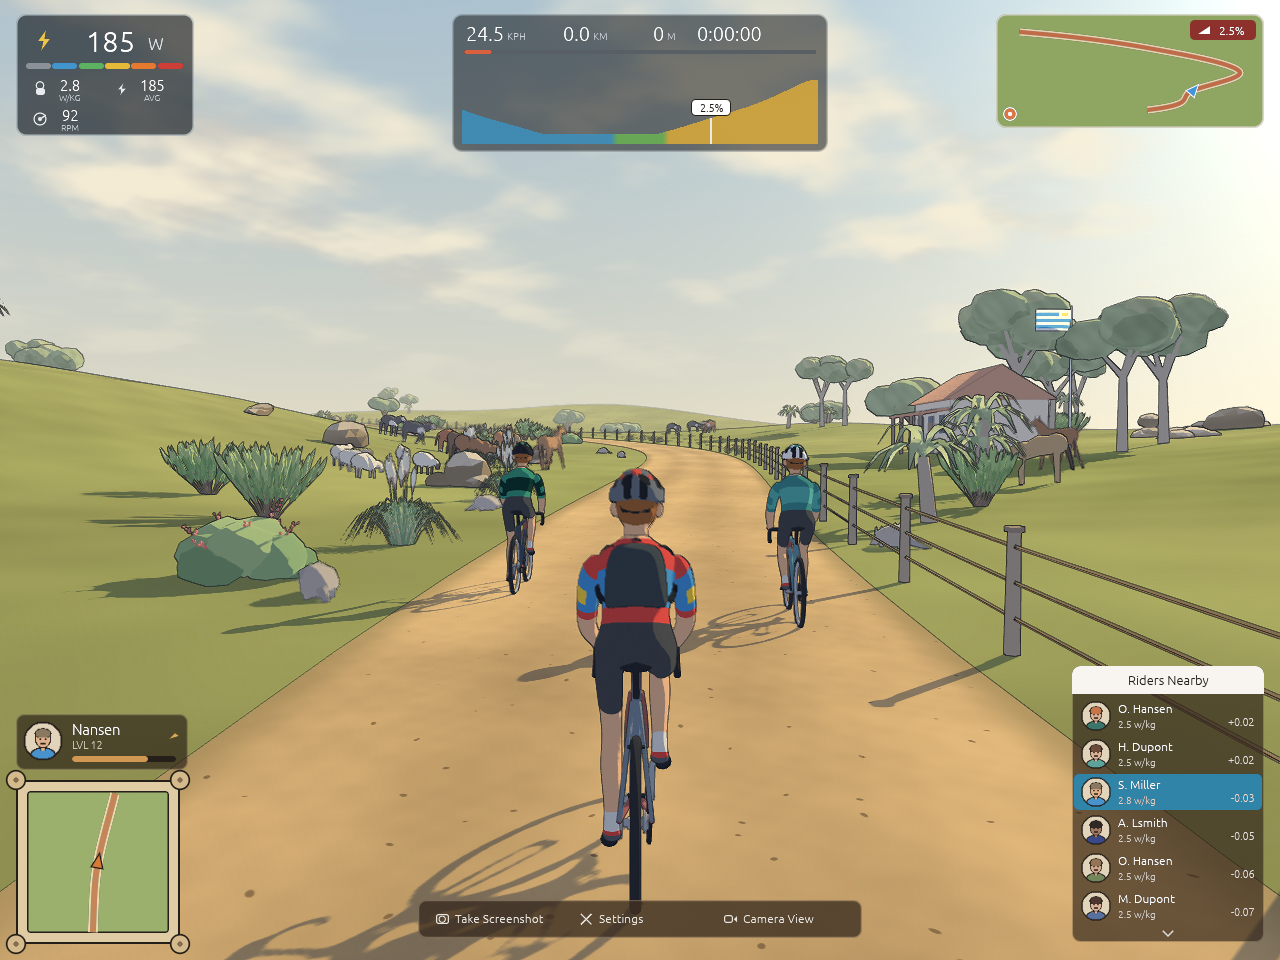
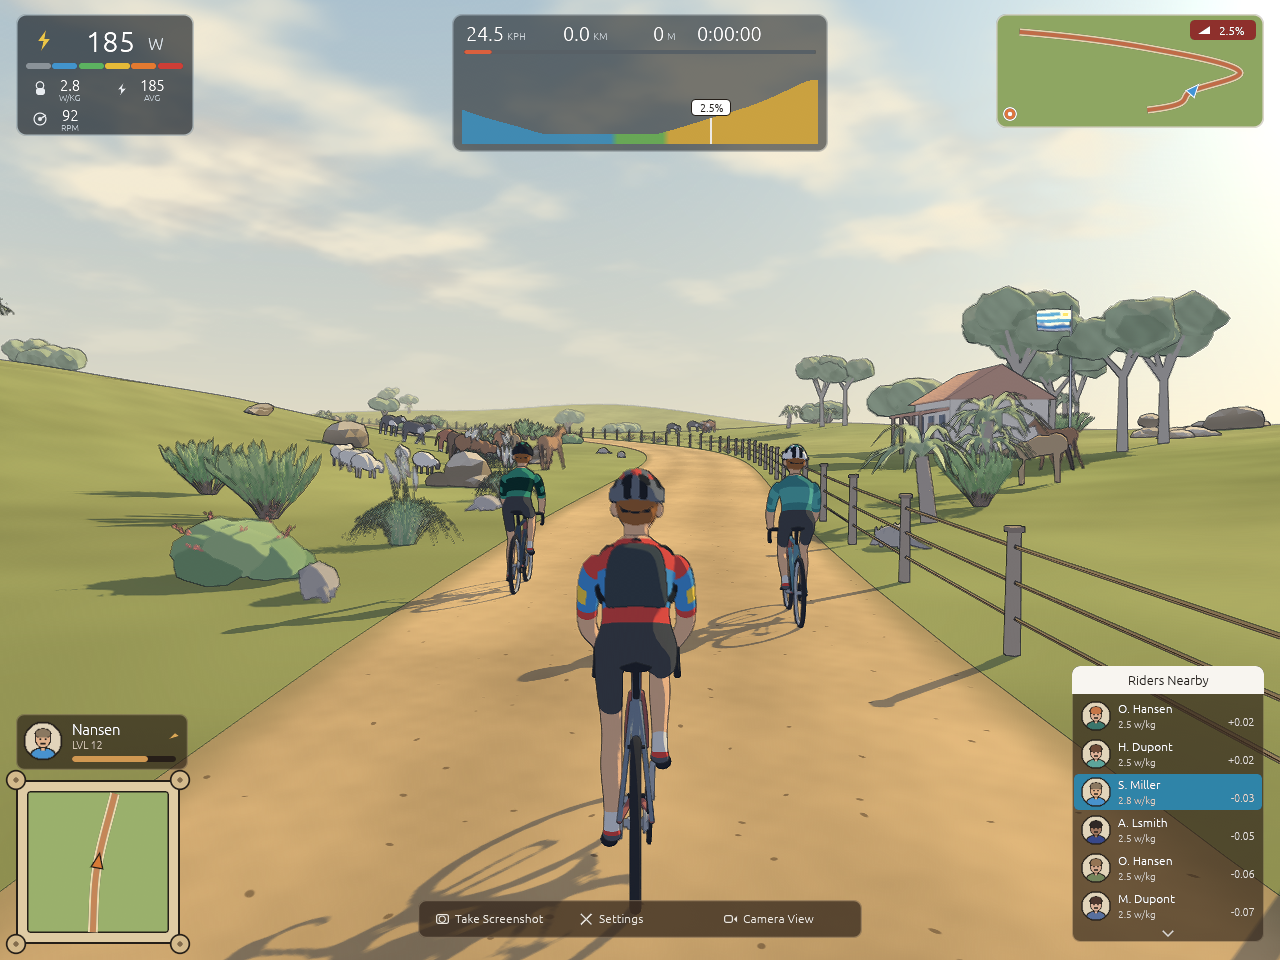
Increase vegetation wind sway amplitude and TAA responsiveness on swaying foliage

diff --git a/src/renderer/mod.rs b/src/renderer/mod.rs
@@ -1613,43 +1613,44 @@ impl LigneClaireRenderer {
                                 | ModelId::TreeEucalyptus(_)
                                 | ModelId::TreeOmbu(_)
                                 | ModelId::TreeCeibo(_) => {
-                                    let h_norm = ((local_y - 0.35).max(0.0) / 5.2).clamp(0.0, 1.35);
+                                    let h_norm = ((local_y - 0.30).max(0.0) / 4.2).clamp(0.0, 1.45);
                                     let leaf_boost = if mat_type == 2 {
-                                        1.0 + 0.38 * (r_xz / 2.2).clamp(0.0, 1.0)
+                                        1.15 + 0.55 * (r_xz / 1.8).clamp(0.0, 1.2)
                                     } else {
-                                        0.52
+                                        0.45
                                     };
-                                    0.078 * (h_norm * h_norm.sqrt()) * leaf_boost * scale_factor
+                                    0.24 * (h_norm * h_norm.sqrt()) * leaf_boost * scale_factor
                                 }
                                 ModelId::PalmTree | ModelId::SmallPalm(_) => {
-                                    let h_norm = ((local_y - 0.15).max(0.0) / 2.5).clamp(0.0, 1.4);
-                                    let frond_out = (r_xz / 1.35).clamp(0.0, 1.3);
-                                    0.060
-                                        * (h_norm * 0.52 + frond_out * h_norm * 0.78)
+                                    let h_norm = ((local_y - 0.12).max(0.0) / 1.8).clamp(0.0, 1.45);
+                                    let frond_out = (r_xz / 1.05).clamp(0.0, 1.4);
+                                    0.22
+                                        * (h_norm * 0.45 + frond_out * h_norm.sqrt() * 0.95)
                                         * scale_factor
                                 }
                                 ModelId::PampasCortadera(_) => {
-                                    let h_norm = (local_y / 1.75).clamp(0.0, 1.3);
-                                    let blade_out = (r_xz / 0.85).clamp(0.0, 1.25);
-                                    0.064
-                                        * (h_norm * h_norm
-                                            + blade_out * (local_y / 0.55).clamp(0.0, 1.0) * 0.58)
+                                    let h_norm = (local_y / 1.45).clamp(0.0, 1.4);
+                                    let blade_out = (r_xz / 0.65).clamp(0.0, 1.35);
+                                    // Both the arching grass blades (high blade_out) and tall plumes (high h_norm) sway visibly
+                                    0.22
+                                        * (h_norm * h_norm * 0.85
+                                            + blade_out * (local_y / 0.28).clamp(0.0, 1.0) * 0.75)
                                         * scale_factor
                                 }
                                 ModelId::ChircaBush(_)
                                 | ModelId::CeiboBush(_)
                                 | ModelId::BushCluster => {
-                                    let h_norm = ((local_y - 0.04).max(0.0) / 1.30).clamp(0.0, 1.25);
-                                    let out_norm = (r_xz / 0.85).clamp(0.0, 1.25);
-                                    0.046 * (h_norm * (0.65 + 0.45 * out_norm)) * scale_factor
+                                    let h_norm = ((local_y - 0.03).max(0.0) / 0.95).clamp(0.0, 1.35);
+                                    let out_norm = (r_xz / 0.65).clamp(0.0, 1.35);
+                                    0.18 * (h_norm * (0.65 + 0.65 * out_norm)) * scale_factor
                                 }
                                 ModelId::WildflowerTuft => {
-                                    let h_norm = (local_y / 0.36).clamp(0.0, 1.25);
-                                    0.030 * (h_norm * h_norm) * scale_factor
+                                    let h_norm = (local_y / 0.26).clamp(0.0, 1.35);
+                                    0.11 * h_norm * scale_factor
                                 }
                                 ModelId::Flagpole => {
                                     if r_xz > 0.11 && local_y > 2.5 {
-                                        0.045 * ((r_xz - 0.10) / 1.1).clamp(0.0, 1.2) * scale_factor
+                                        0.16 * ((r_xz - 0.10) / 1.0).clamp(0.0, 1.3) * scale_factor
                                     } else {
                                         0.0
                                     }
